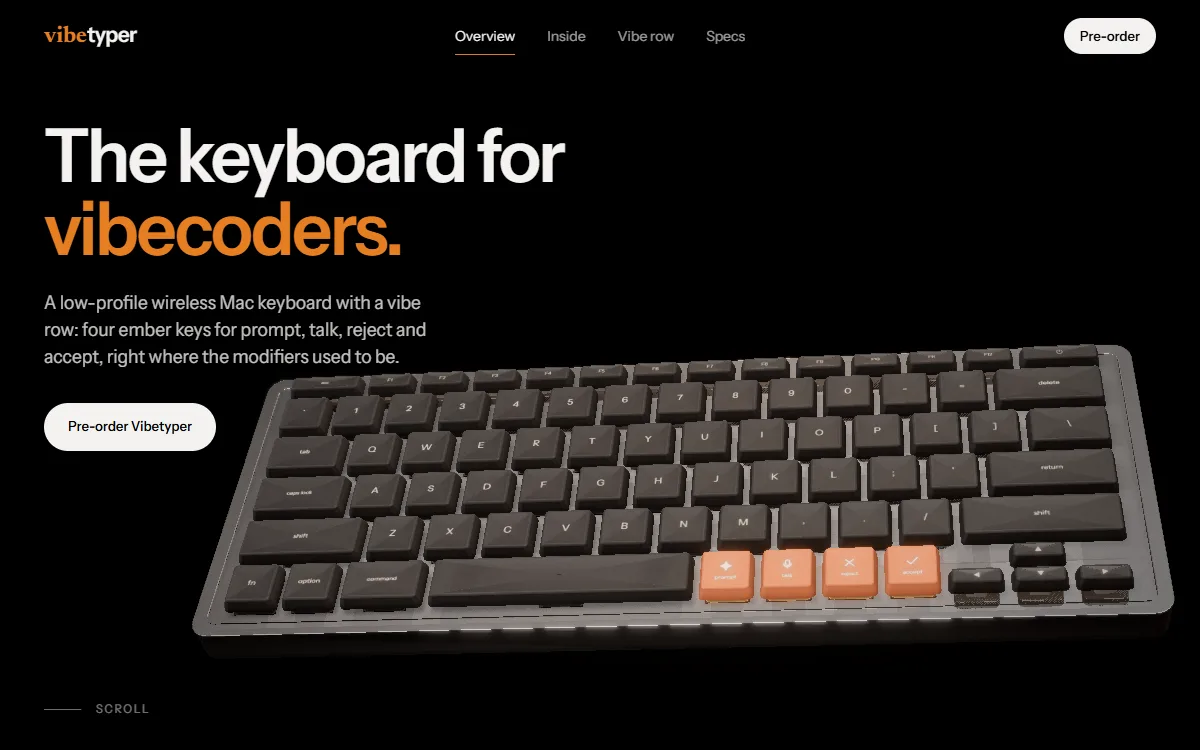
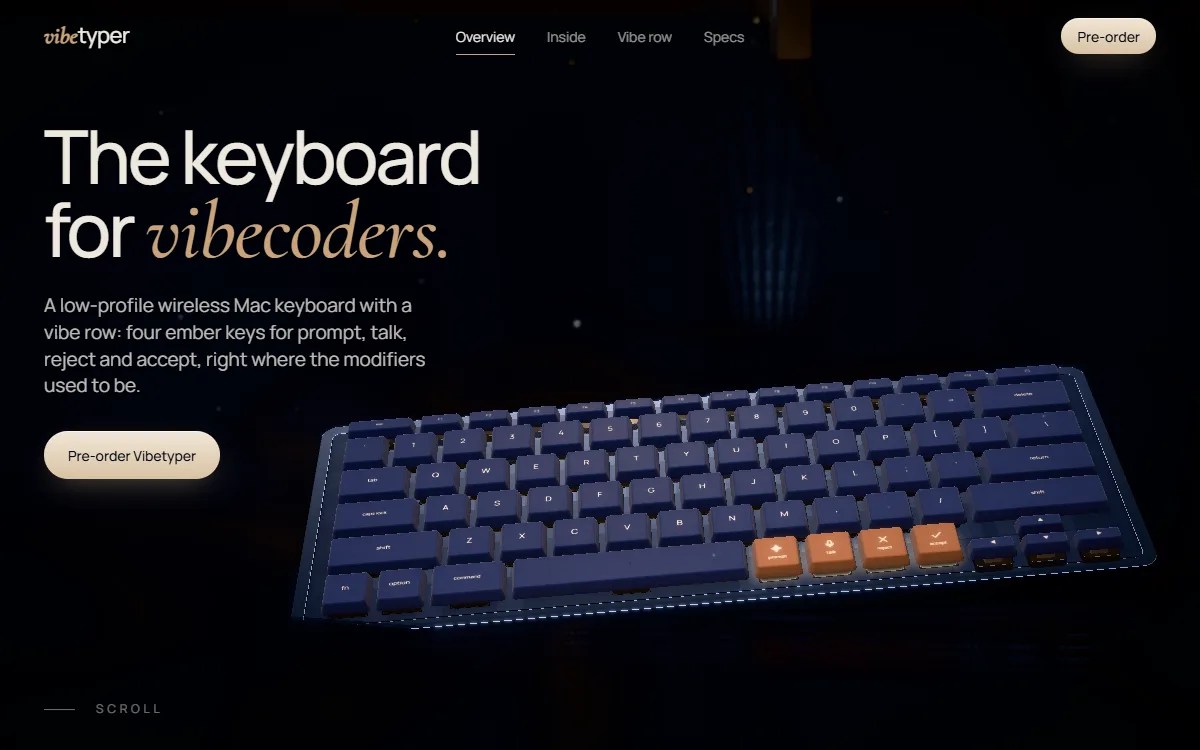
Vibetyper: refresh screenshot + features for luxury blue redesign

diff --git a/index.html b/index.html
@@ -2486,8 +2486,9 @@
           <ul class="highlights">
             <li>Opening camera flight through the inside of the keyboard while the keycaps drop into place</li>
             <li>Scroll splits the keyboard into its 7 layers, with labels that follow each part</li>
-            <li>The four orange "vibe" keys light up in turn, then the accept key comes apart into cap, switch, spring and light</li>
-            <li>Keys rise under the cursor; studio lighting, depth of field, bloom and film grain; works on phones</li>
+            <li>The four copper "vibe" keys light up in turn, then the accept key comes apart into cap, switch, spring and light</li>
+            <li>Luxury look: blue anodised keyboard on midnight navy, realistic brushed metal and matte keycaps, drifting haze and dust, reflective floor</li>
+            <li>Slow 10-second cinematic loop with camera orbit and push-in; keys rise under the cursor; works on phones</li>
           </ul>
 
           <p style="display:flex;flex-wrap:wrap;gap:10px;margin:14px 0">
